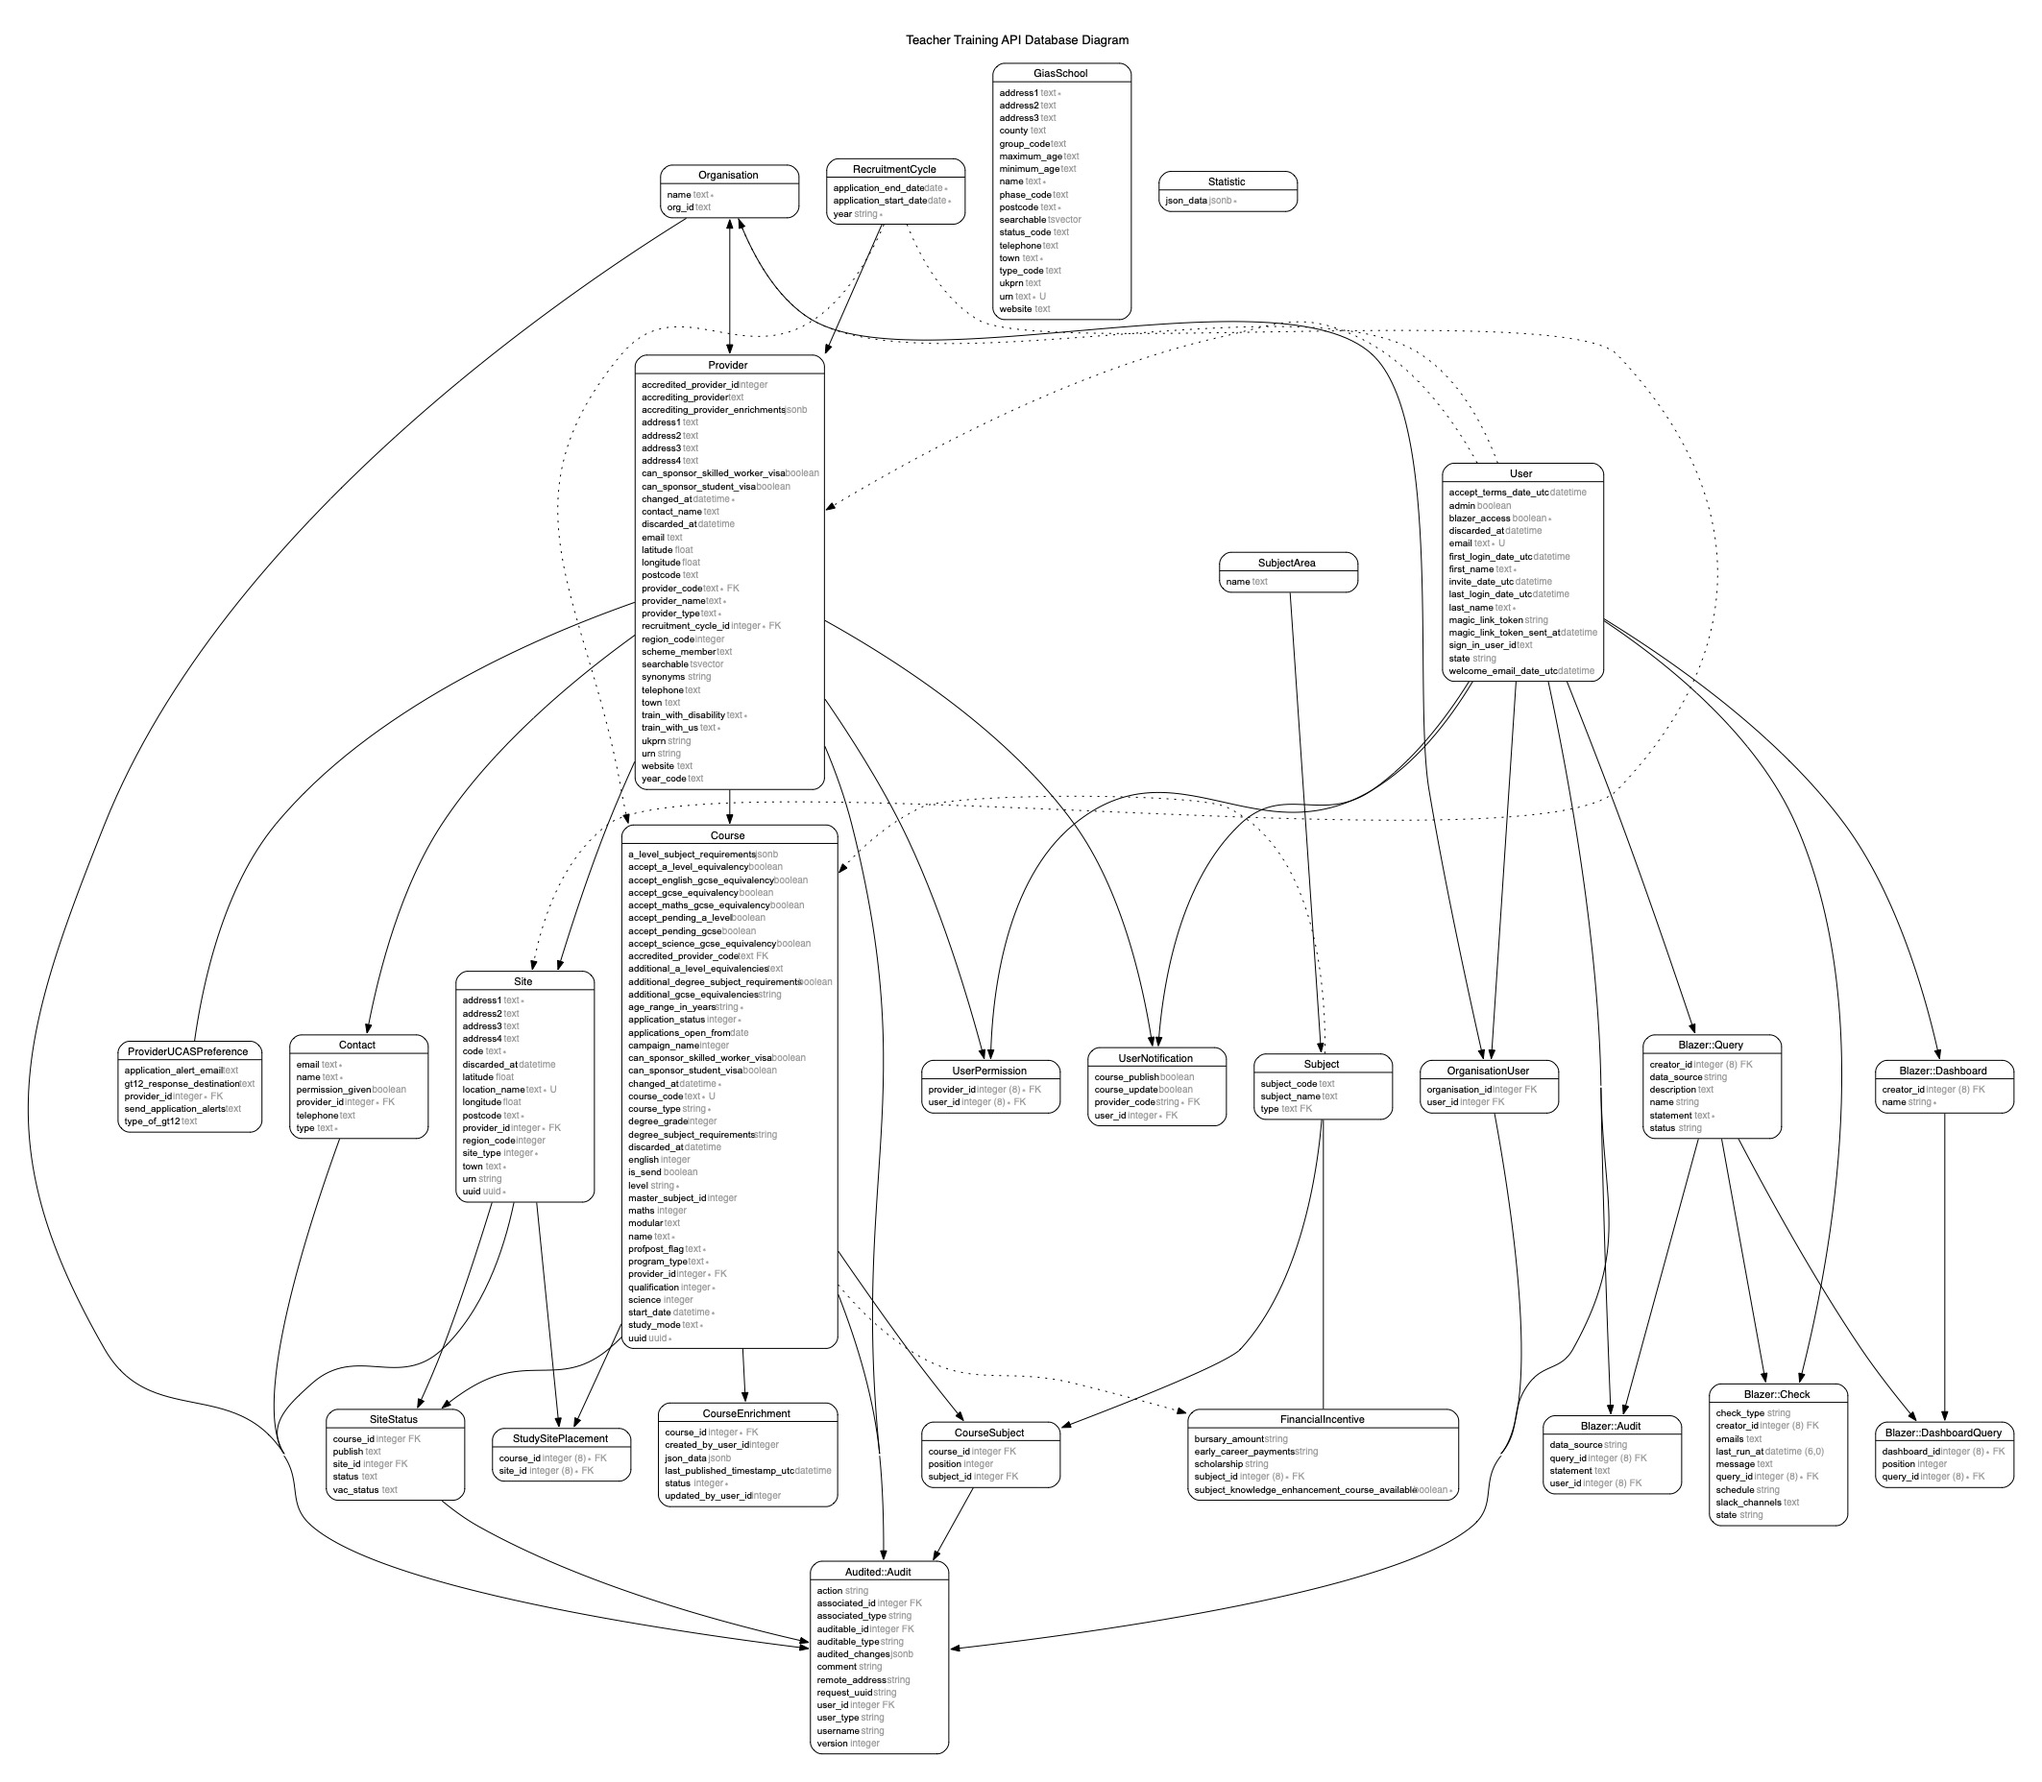
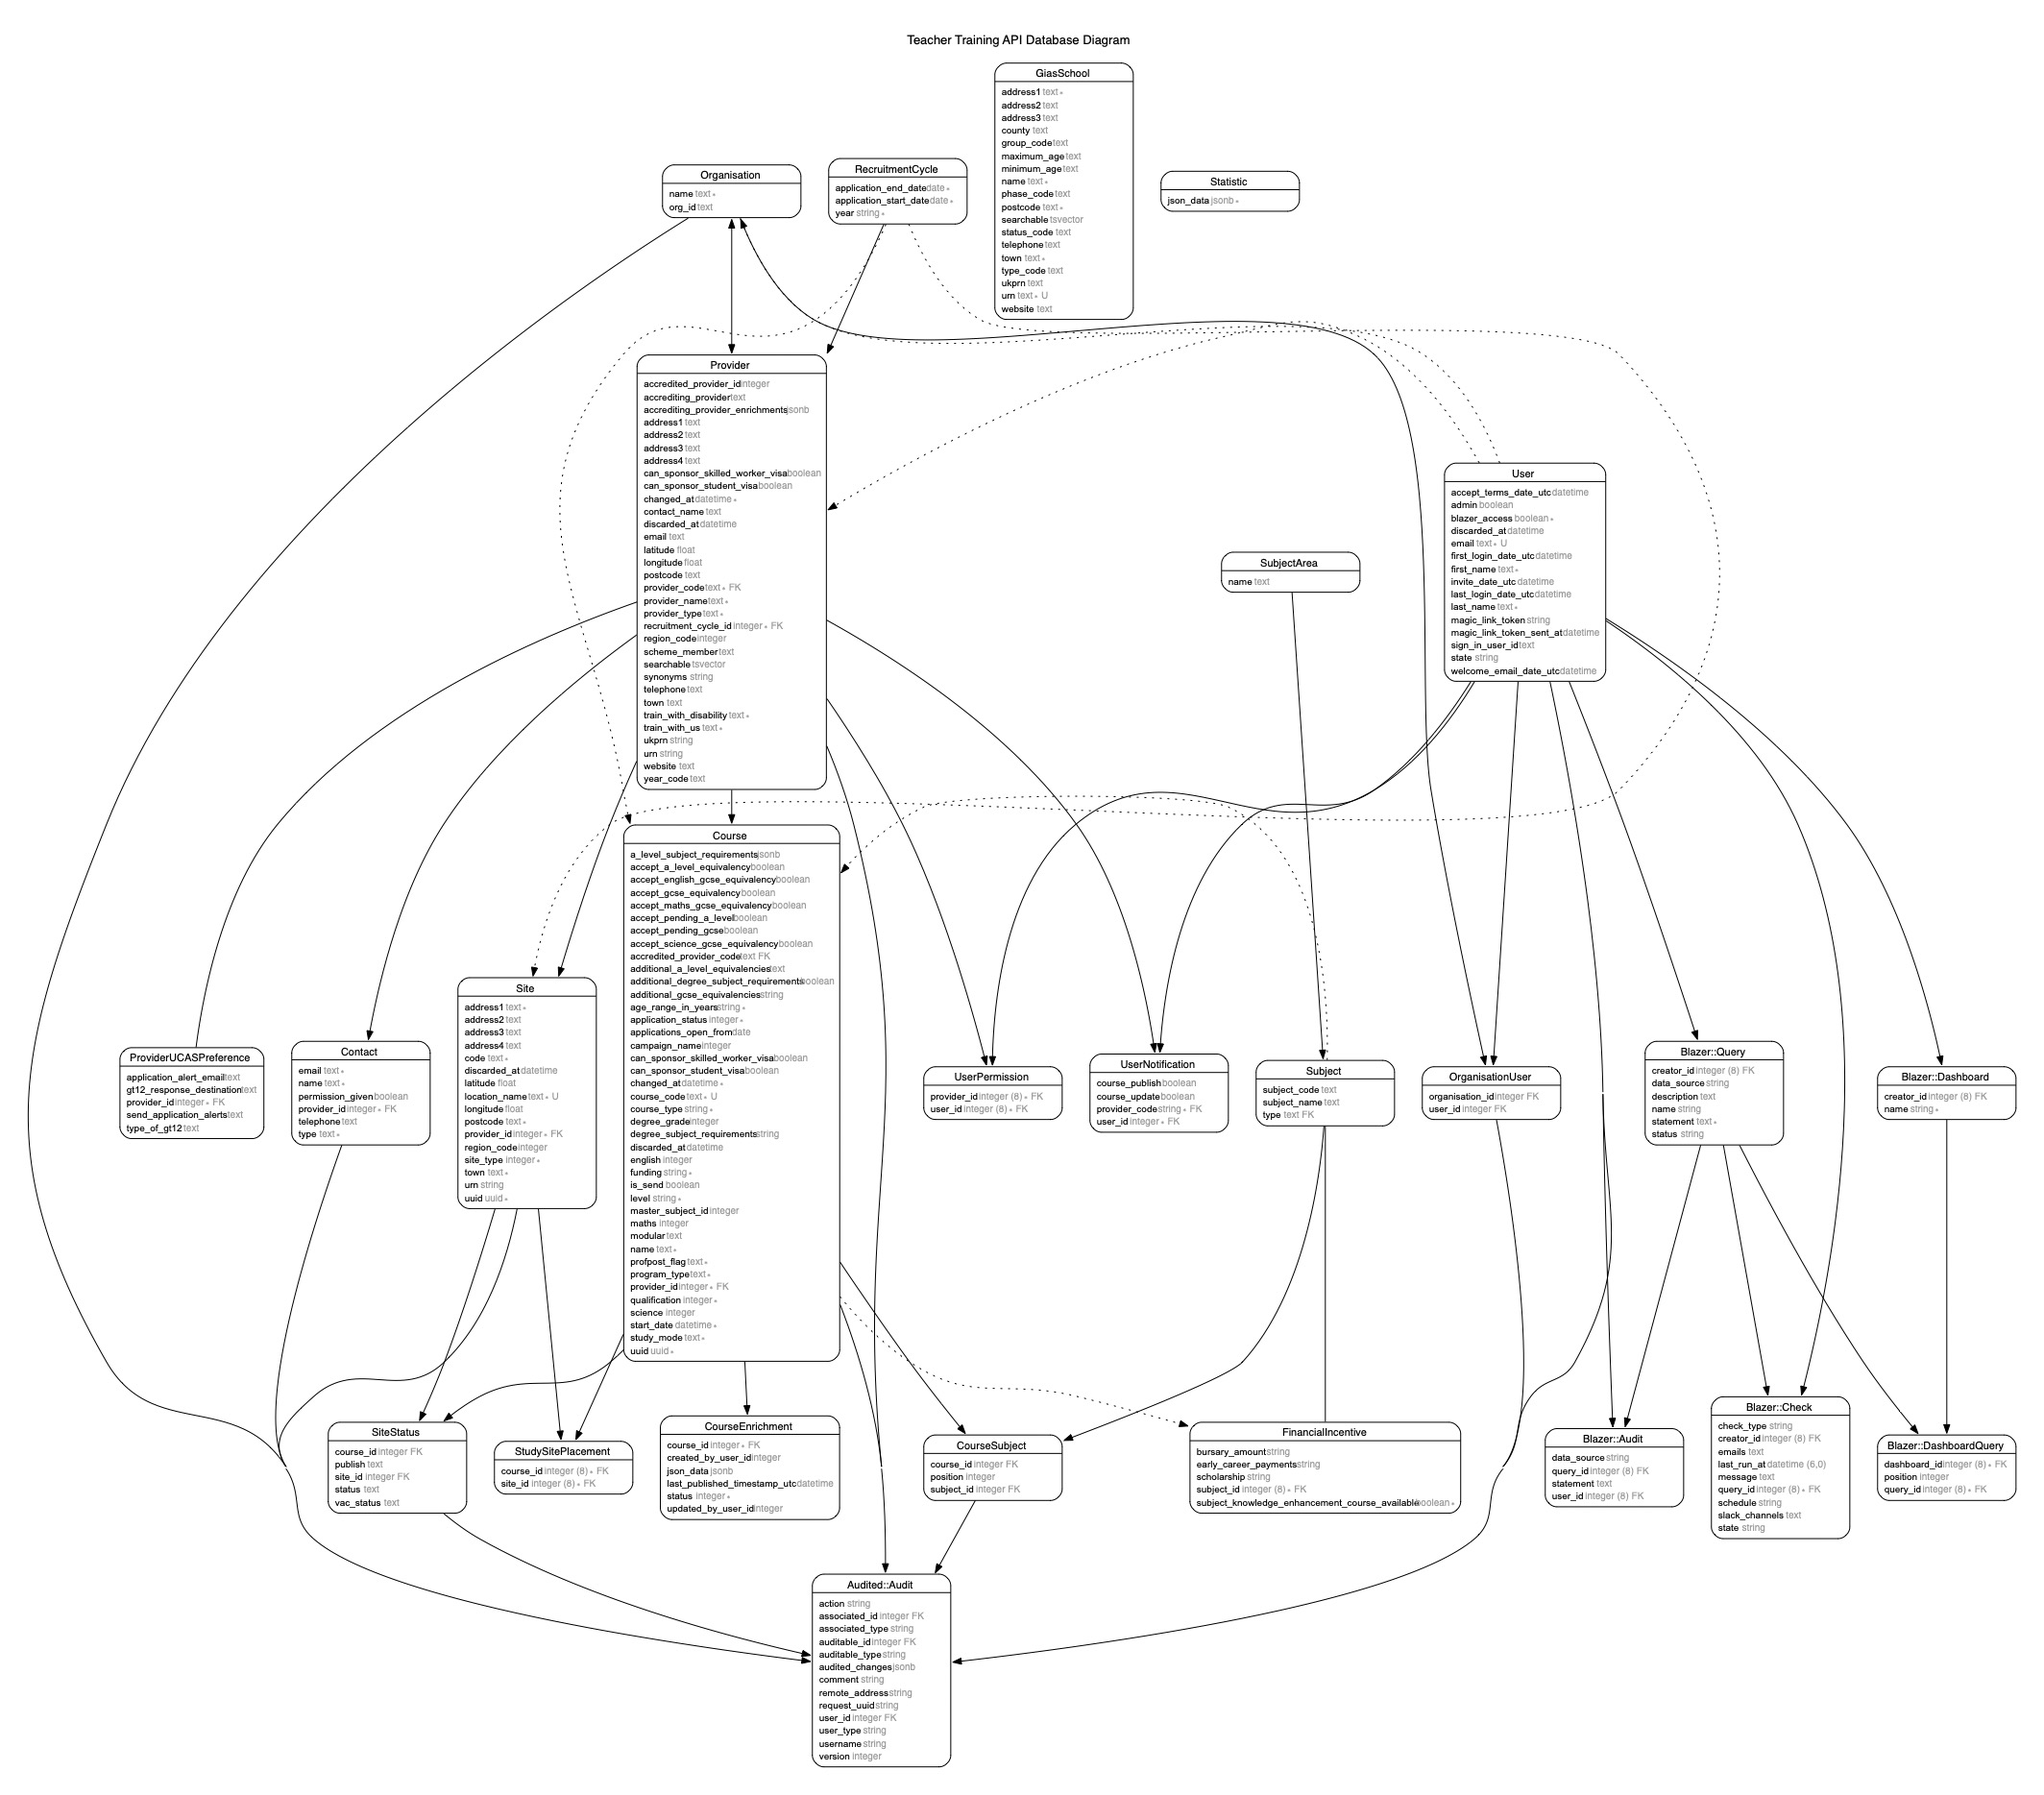
[2116] Add funding column to course
- Set the default value to fee
- Use string data type
- Prevent null columns

diff --git a/db/schema.rb b/db/schema.rb
@@ -10,7 +10,7 @@
 #
 # It's strongly recommended that you check this file into your version control system.
 
-ActiveRecord::Schema[7.1].define(version: 2024_07_31_175623) do
+ActiveRecord::Schema[7.1].define(version: 2024_08_01_170318) do
   # These are extensions that must be enabled in order to support this database
   enable_extension "btree_gin"
   enable_extension "btree_gist"
@@ -157,6 +157,7 @@ ActiveRecord::Schema[7.1].define(version: 2024_07_31_175623) do
     t.boolean "accept_a_level_equivalency"
     t.text "additional_a_level_equivalencies"
     t.string "course_type", default: "postgraduate", null: false
+    t.string "funding", default: "fee", null: false
     t.index ["accredited_provider_code"], name: "index_course_on_accredited_provider_code"
     t.index ["application_status"], name: "index_course_on_application_status"
     t.index ["campaign_name"], name: "index_course_on_campaign_name"

diff --git a/db/migrate/20240801170318_add_funding_type_to_courses.rb b/db/migrate/20240801170318_add_funding_type_to_courses.rb
@@ -1,0 +1,7 @@
+# frozen_string_literal: true
+
+class AddFundingTypeToCourses < ActiveRecord::Migration[7.1]
+  def change
+    add_column :course, :funding, :string, default: 'fee', null: false
+  end
+end
